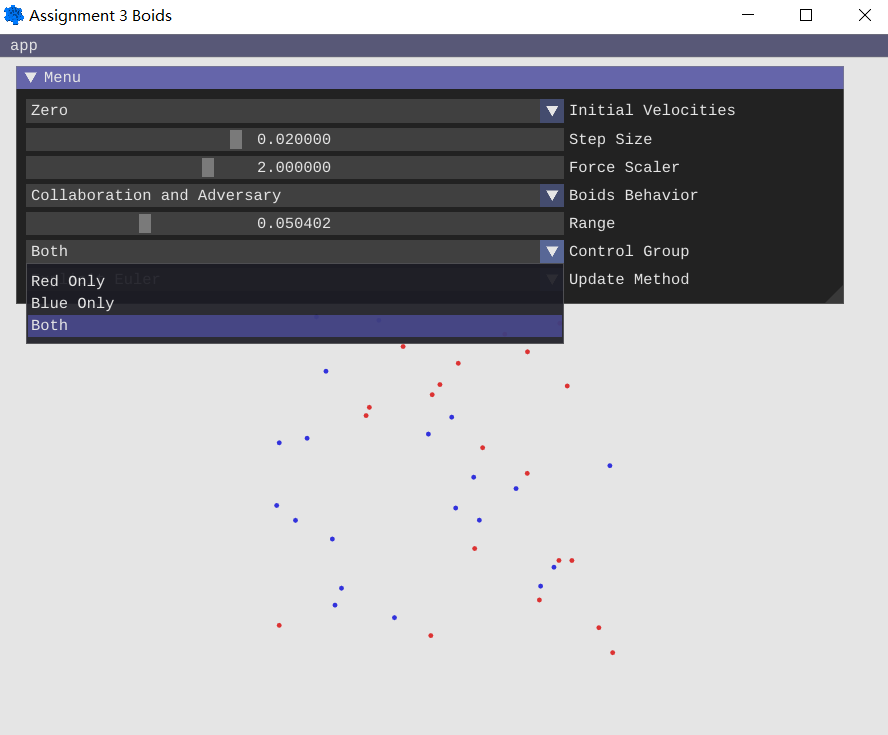
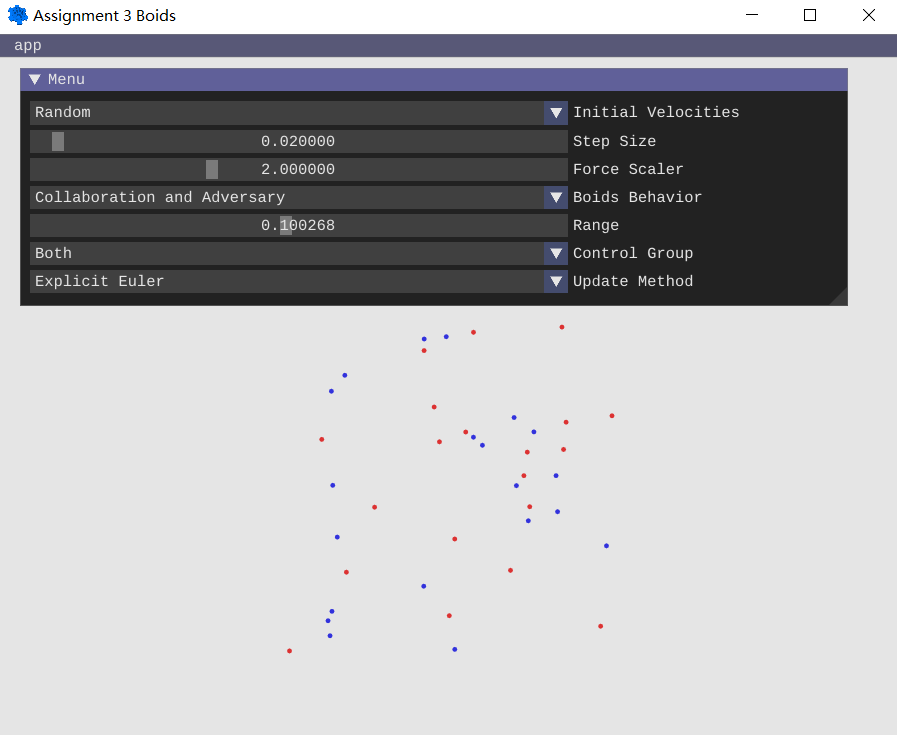
readme finished

Changed region(s): [[0.0, 0.0599, 0.973, 0.4789], [0.0, 0.0, 0.2128, 0.0299], [0.9426, 0.0, 0.973, 0.0299]]

diff --git a/src/boids/boids.h b/src/boids/boids.h
@@ -23,7 +23,7 @@ enum UpdateTypes {
     };
 
 enum ControlGroup {
-        RED=0, BLUE=1, BOTH=2
+        NEITHER=0, RED=1, BLUE=2, BOTH=3
     };
 
 template <class T, int dim>
@@ -418,6 +418,7 @@ public:
             switch (control_group)
             // apply control strategy to diffent control group
             {
+                case NEITHER: control_flag_ad = 0; break;
                 case RED: if (group_label_copy(0, i) == 0) control_flag_co = 1; break;
                 case BLUE: if (group_label_copy(0, i) == 1) control_flag_co = 1; break;
                 case BOTH: control_flag_co = 1; break;
@@ -448,6 +449,7 @@ public:
                 switch (control_group)
                 // apply control strategy to diffent control group
                 {
+                    case NEITHER: control_flag_ad = 0; break;
                     case RED: if (group_label_copy(0, i) == 0) control_flag_ad = 1; break;
                     case BLUE: if (group_label_copy(0, i) == 1) control_flag_ad = 1; break;
                     case BOTH: control_flag_ad = 1; break;

diff --git a/src/app/main.cpp b/src/app/main.cpp
@@ -65,7 +65,7 @@ public:
         }
 
         float hmin = 0.001f;
-        float hmax = 0.05f;
+        float hmax = 0.5f;
         SliderScalar("Step Size", ImGuiDataType_Float, &h_read, &hmin, &hmax);
         float fsmin = 0.5f;
         float fsmax = 5.0f;
@@ -111,8 +111,8 @@ public:
             SliderScalar("Range", ImGuiDataType_Float, &range_read, &rmin, &rmax);
             divideGroup = true;
             drawCircles = false;
-            const char* control_group_list[] = {"Red Only", "Blue Only", "Both"};
-            Combo("Control Group", (int*)&control_group_read, control_group_list, 3);
+            const char* control_group_list[] = {"Neither", "Red Only", "Blue Only", "Both"};
+            Combo("Control Group", (int*)&control_group_read, control_group_list, 4);
         }
         else divideGroup = false;
 

diff --git a/Readme.md b/Readme.md
@@ -1,5 +1,11 @@
 # Assignment 3 - Boids
 
+## Get Started
+
+This is an overall `readme.md` file which introduces features of the program and how they are realized in a general and comprehensive fashion.
+
+> In particular, the required answers to the questions asked in the instruction sheet are written in **quote form**.
+
 ## Demos
 
 YouTube video demos please click here.
@@ -31,6 +37,8 @@ This feature denotes the initial velocities of the Boids when initializing the s
 - Random Positive
   - random initial velocities with only positive values
 
+This feature is realized in the function `void initializePositions(InitTypes init_vel)`.
+
 ## Step Size
 
 This feature denotes the value of step size in the discretized system dynamics. A recommended value of 0.02 has been set as default.
@@ -55,11 +63,17 @@ This feature denotes the Boids behaviors required to be implemented including:
 
 A *constant gravity* is applied on each Boid.
 
+> You are free to choose different initialization methods as required.
+
+This feature is realized in the function `TVStack freefall(TVStack positions_temp)`.
+
 ### Seperation
 
 A slidebar will pop up and you can change affecting range of the behavior.
 
 If two Boids have a distance smaller than the range defined above, a repulsive force that is *inversely proportional to the square of the distance* will be applied. In order to generate a mild force feedback and reduce overshoot, an offset term is considered in the force formulation.
+
+This feature is realized in the function `TVStack separation(TVStack positions_temp)`.
 
 ### Alignment
 
@@ -67,11 +81,15 @@ A slidebar will pop up and you can change affecting range of the behavior.
 
 For Boid i, if another Boid j lies within the range defined above, j is collected as a neighbor of i. The average position of the neighbors of Boid i and their distance inbetween will then be calculated and an attractive force that is *proportional to the distance* will be applied on Boid i. Meanwhile, in order to align velocity with the surrounding counterparts, a Boid will be applied a force induced by the *difference of velocity directions* between the average velocity of its neighbors in the range and itself.
 
+This feature is realized in the function `TVStack alignment(TVStack positions_temp)`.
+
 ### Cohesion
 
 A slidebar will pop up and you can change affecting range of the behavior.
 
 For Boid i, if another Boid j lies within the range defined above, j is collected as a neighbor of i. The average position of the neighbors of Boid i and their distance inbetween will then be calculated and an attractive force that is *proportional to the distance* will be applied on Boid i. In order to generate a mild force feedback and reduce overshoot, a PD controller is considered in the force formulation.
+
+This feature is realized in the function `TVStack cohesion(TVStack positions_temp)`.
 
 ### Leading
 
@@ -81,7 +99,7 @@ A slidebar will pop up and you can change affecting range of the behavior. In ad
 
 *Figure 2: Overview of leading layout.*
 
-In this feature, a Boid colored blue is assigned as the leader, whose trajectory can be instructed by cursor click on the screen. This is realized in like manner as above where a PD controller is implemented considering the target and current state.
+In this feature, a Boid colored blue is assigned as the leader, whose trajectory can be instructed by cursor click on the screen. This is realized in like manner as above where a PD controller is implemented considering difference between the target and current state. The position of the target is read in the function `void read_cursor(TV target_pos_read)`.
 
 As for the followers, if the distance between a following Boid and the leader is smaller than the range defined above, an attractive force that is *proportional to the distance* will be applied. Meanwhile, a following Boid will be applied a force induced by the *difference of velocities* between the leader and itself so as to head in the same direction as the leader.
 
@@ -90,11 +108,23 @@ distance to each other.
 
 How a force to avoid obstacle is generated will be explained later in Collision Avoidance feature.
 
+This feature is realized in the function `TVStack leading(TVStack positions_temp)`.
+
 ### Circular
 
-Please select the initial velocities to be orthogonal to initial positions to visualize the implementation of this feature.
+Please select the initial velocities to be orthogonal to initial positions to visualize the implementation of this feature. The velocities are initialized in the function `void circular_vel_init()`. And please set step size to around 0.50 to observe clear behaviors between different update rules.
 
 A *constant centripetal force* is applied on each Boid so as to encourage circular motion in the plane.
+
+> You are free to choose different initialization methods as required. In particular, in the case when orthogonal initial velocities are chosen, circular motion of Boids can be observed. For each of the three integration schemes, experiment with different step sizes shows their difference in energy conservation.
+> 
+> In the case where the explict Euler method is implemented, the radii of the circular motion of the Boids increase gradually, i.e. the Boids are shifted away from the center, showing that the total energy of the system increases steadily when the explicit Euler method is applied. This behavior is escalated with the growth of step size, which indicates that the explicit Euler method overshoots for strongly attractive fixed-points and large time steps.
+> 
+> In comparison, the lengths of radii are well preserved when the symplectic Euler method is implemented, which indicates that it almost conserves the energy.
+> 
+> Eventually in the case where the explicit midpoint method is implemented, the Boids still shift outwards, but with a slower process compared with the explict Euler method. This is because the explicit midpoint method accumulates error of order $O(h^2)$, while the explict Euler method does of order $O(h)$. Therefore, while the explicit midpoint method is more computationally intensive than the other two methods, error generally decreases faster as $h \rightarrow 0$.
+
+This feature is realized in the function `TVStack circular(TVStack positions_temp)`.
 
 ### Collision Avoidance
 
@@ -102,9 +132,11 @@ An obstacle is enabled and a slidebar determining its position and radius will p
 
 If a Boid has a distance from the obstacle center smaller than the obstacle radius, a repulsive force that is *inversely proportional to the square of the distance* will be applied. In order to generate a mild force feedback and reduce overshoot, an offset term is considered in the force formulation. To avoid Boids bursting into the obstacle, the positions of Boids will be reset to the surface of the obstacle once that happens.
 
+This feature is realized in the function `TVStack collision_avoidance(TVStack positions_temp)`.
+
 ### Collaboration and Adversary
 
-The Boids are *divided into two groups* and colored with red and blue respectively. A slidebar will pop up and you can change affecting range of the behavior. Meanwhile, you can choose the control strategy to be applied on which group in the dropdown menu showing up.
+The Boids are *divided into two groups* and colored with red and blue respectively. A slidebar will pop up and you can change affecting range of the behavior. Meanwhile, you can choose the control strategy to be applied on which group in the dropdown menu showing up. Please set the range to be around 0.10 to observe clear Boids behaviors.
 
 ![figure: collaboration_and_adversary](imgs/collaboration_and_adversary.png)
 
@@ -115,7 +147,7 @@ As described in the instruction, the evolution of the system respects the follow
 - if three Boids from the same group are close to a Boid from the other group, the latter one is removed from the
 system.
 
-To divide the Boids into two groups, a group assignment is generated to determine which group each Boid belongs to. In addition, to avoid infinite reproduction which slows down the computation, a reproduction limit of one is considered where *each Boid is allowed to generate only one child* if the conditon of the first rule is fulfilled. This information is termed as reproduction permission, where 0 denotes reproduction allowed and 1 denotes not. Together with group assignment, the information of each Boid is stored in a matrix called `group_label`, where each column corresponds to a Boid and *consists of two entries* - the first one represents the group assignment while the second one represents the reproduction permission.
+To divide the Boids into two groups, a group assignment is generated to determine which group each Boid belongs to. In addition, to avoid infinite reproduction which slows down the computation, a reproduction limit of one is considered where *each Boid is allowed to generate only one child* if the conditon of the first rule is fulfilled. This information is termed as reproduction permission, where 0 denotes reproduction allowed and 1 denotes not. Together with group assignment, the information of each Boid is stored in a matrix called `group_label`, where each column corresponds to a Boid and *consists of two entries* - the first one represents the group assignment while the second one represents the reproduction permission. This matrix is initialized in the function `void initializeGroupLabel()`.
 
 These rules are realized by dynamically adding or removing a Boid (a column) in or from `positions` and `velocities` when the conditions are fulfilled. It is worth noting that the newly added Boid is positioned and has a velocity at the average positions and velocities of its parents.
 
@@ -130,17 +162,75 @@ distance to each other.
 
 Please refer to the code annotation for a detailed documentation of realization.
 
+> You are free to choose any initialization method and any of the update rule. In particular, the symplectic Euler method with random initial positions and velocities can be used to observe the evolution of the populations as required.
+> 
+> When no control strategy is applied, the populations of the two groups behave well in accordance with the rules defined above. However this is not the best case to observe the evolution of the system, since the Boids will scatter away due to their random initial velocities.
+> 
+> When the control strategy designed above is applied to only one of the two groups, say group colored red, it can be observed that the red Boids will attempt to gather and form large communities in the first place, while avoiding bursting into blue communities with large sizes. Then, with a large member of companions, the red Boids in the communities will search for single blue counterparts within their observation range and approach them if they have an inferior size so as to eliminate them while increasing relative group size.
+> 
+> It gets interesting when the control strategy is applied to both groups. While each group presents the similar behaviors as it is controlled singly, namely first search for companions and form large communities while avoiding being caught in communities formed by Boids from the other group, they demonstrate an interesting catch-and-escape behavior, where a community from one group with smaller size tries to escape from the pursuit by a larger community from the other group. Moreover, the escaping community will seek chances from time to time to eliminate single Boids from its catcher which overshoot while chasing.
+
+Please refer to the video demos for a better understanding of the group behaviors and population evolution process.
+
+This feature is realized in the function `TVStack collaboration_adversary(TVStack positions_temp)`.
+
 ### Recommended Parameter
 
 To observe an articulated simulation result, a set of recommended parameters are provided. In most cases, they are set to be the default value. An overview of recommended parameters is listed here:
 
 | Initial Velocities 	| Step Size 	| Force Scaler 	| Boids Behavior              	| Range 	|
-|--------------------	|-----------	|--------------	|-----------------------------	|-------	|
+|:--------------------:	|:-----------:	|:------------:	|:----------------------------:	|:-------:	|
 | -                  	| 0.02      	| 2.00         	| Free Fall                   	| -     	|
 | -                  	| 0.02      	| 2.00         	| Separation                  	| 0.50  	|
 | -                  	| 0.02      	| 2.00         	| Alignment                   	| 0.50  	|
 | -                  	| 0.02      	| 2.00         	| Cohesion                    	| 0.50  	|
 | -                  	| 0.02      	| 2.00         	| Leading                     	| 0.50  	|
-| Orthogonal         	| 0.02      	| 2.00         	| Circular                    	| -     	|
+| Orthogonal         	| 0.50      	| 2.00         	| Circular                    	| -     	|
 | -                  	| 0.02      	| 2.00         	| Collision Avoidance         	| -     	|
 | -                  	| 0.02      	| 2.00         	| Collaboration and Adversary 	| 0.10  	|
+
+*Table 1: Recommended Parameters.*
+
+## Update Method
+
+This feature denotes the time integration rules:
+- Explicit Euler
+- Symplectic Euler
+- Explicit Midpoint
+
+For each Boids behavior, you are free to choose any of the three update rules. Here is a brief recap on how these update rules work, as indicated in the instruction:
+
+### Explicit Euler
+
+$$
+\begin{aligned}
+    x_{n+1} & = x_{n} + h v_n \\
+    v_{n+1} & = v_{n} + h M^{-1} f(x_n)
+\end{aligned}
+$$
+
+This feature is realized in the function `void explicit_euler(std::function<TVStack(TVStack)> method)`.
+
+### Symplectic Euler
+
+$$
+\begin{aligned}
+    x_{n+1} & = x_{n} + h v_n \\
+    v_{n+1} & = v_{n} + h M^{-1} f(x_{n+1}) \\
+\end{aligned}
+$$
+
+This feature is realized in the function `void symplectic_euler(std::function<TVStack(TVStack)> method)`.
+
+### Explicit Euler
+
+$$
+\begin{aligned}
+    x_{n+1/2} & = x_{n} + \frac{h}{2} v_n \\
+    v_{n+1/2} & = v_{n} + \frac{h}{2} M^{-1} f(x_n) \\
+    x_{n+1} & = x_{n} + h v_{n+1/2} \\
+    v_{n+1} & = v_{n} + h M^{-1} f(x_{n+1/2}) \\
+\end{aligned}
+$$
+
+This feature is realized in the function `void explicit_midpoint(std::function<TVStack(TVStack)> method)`.
